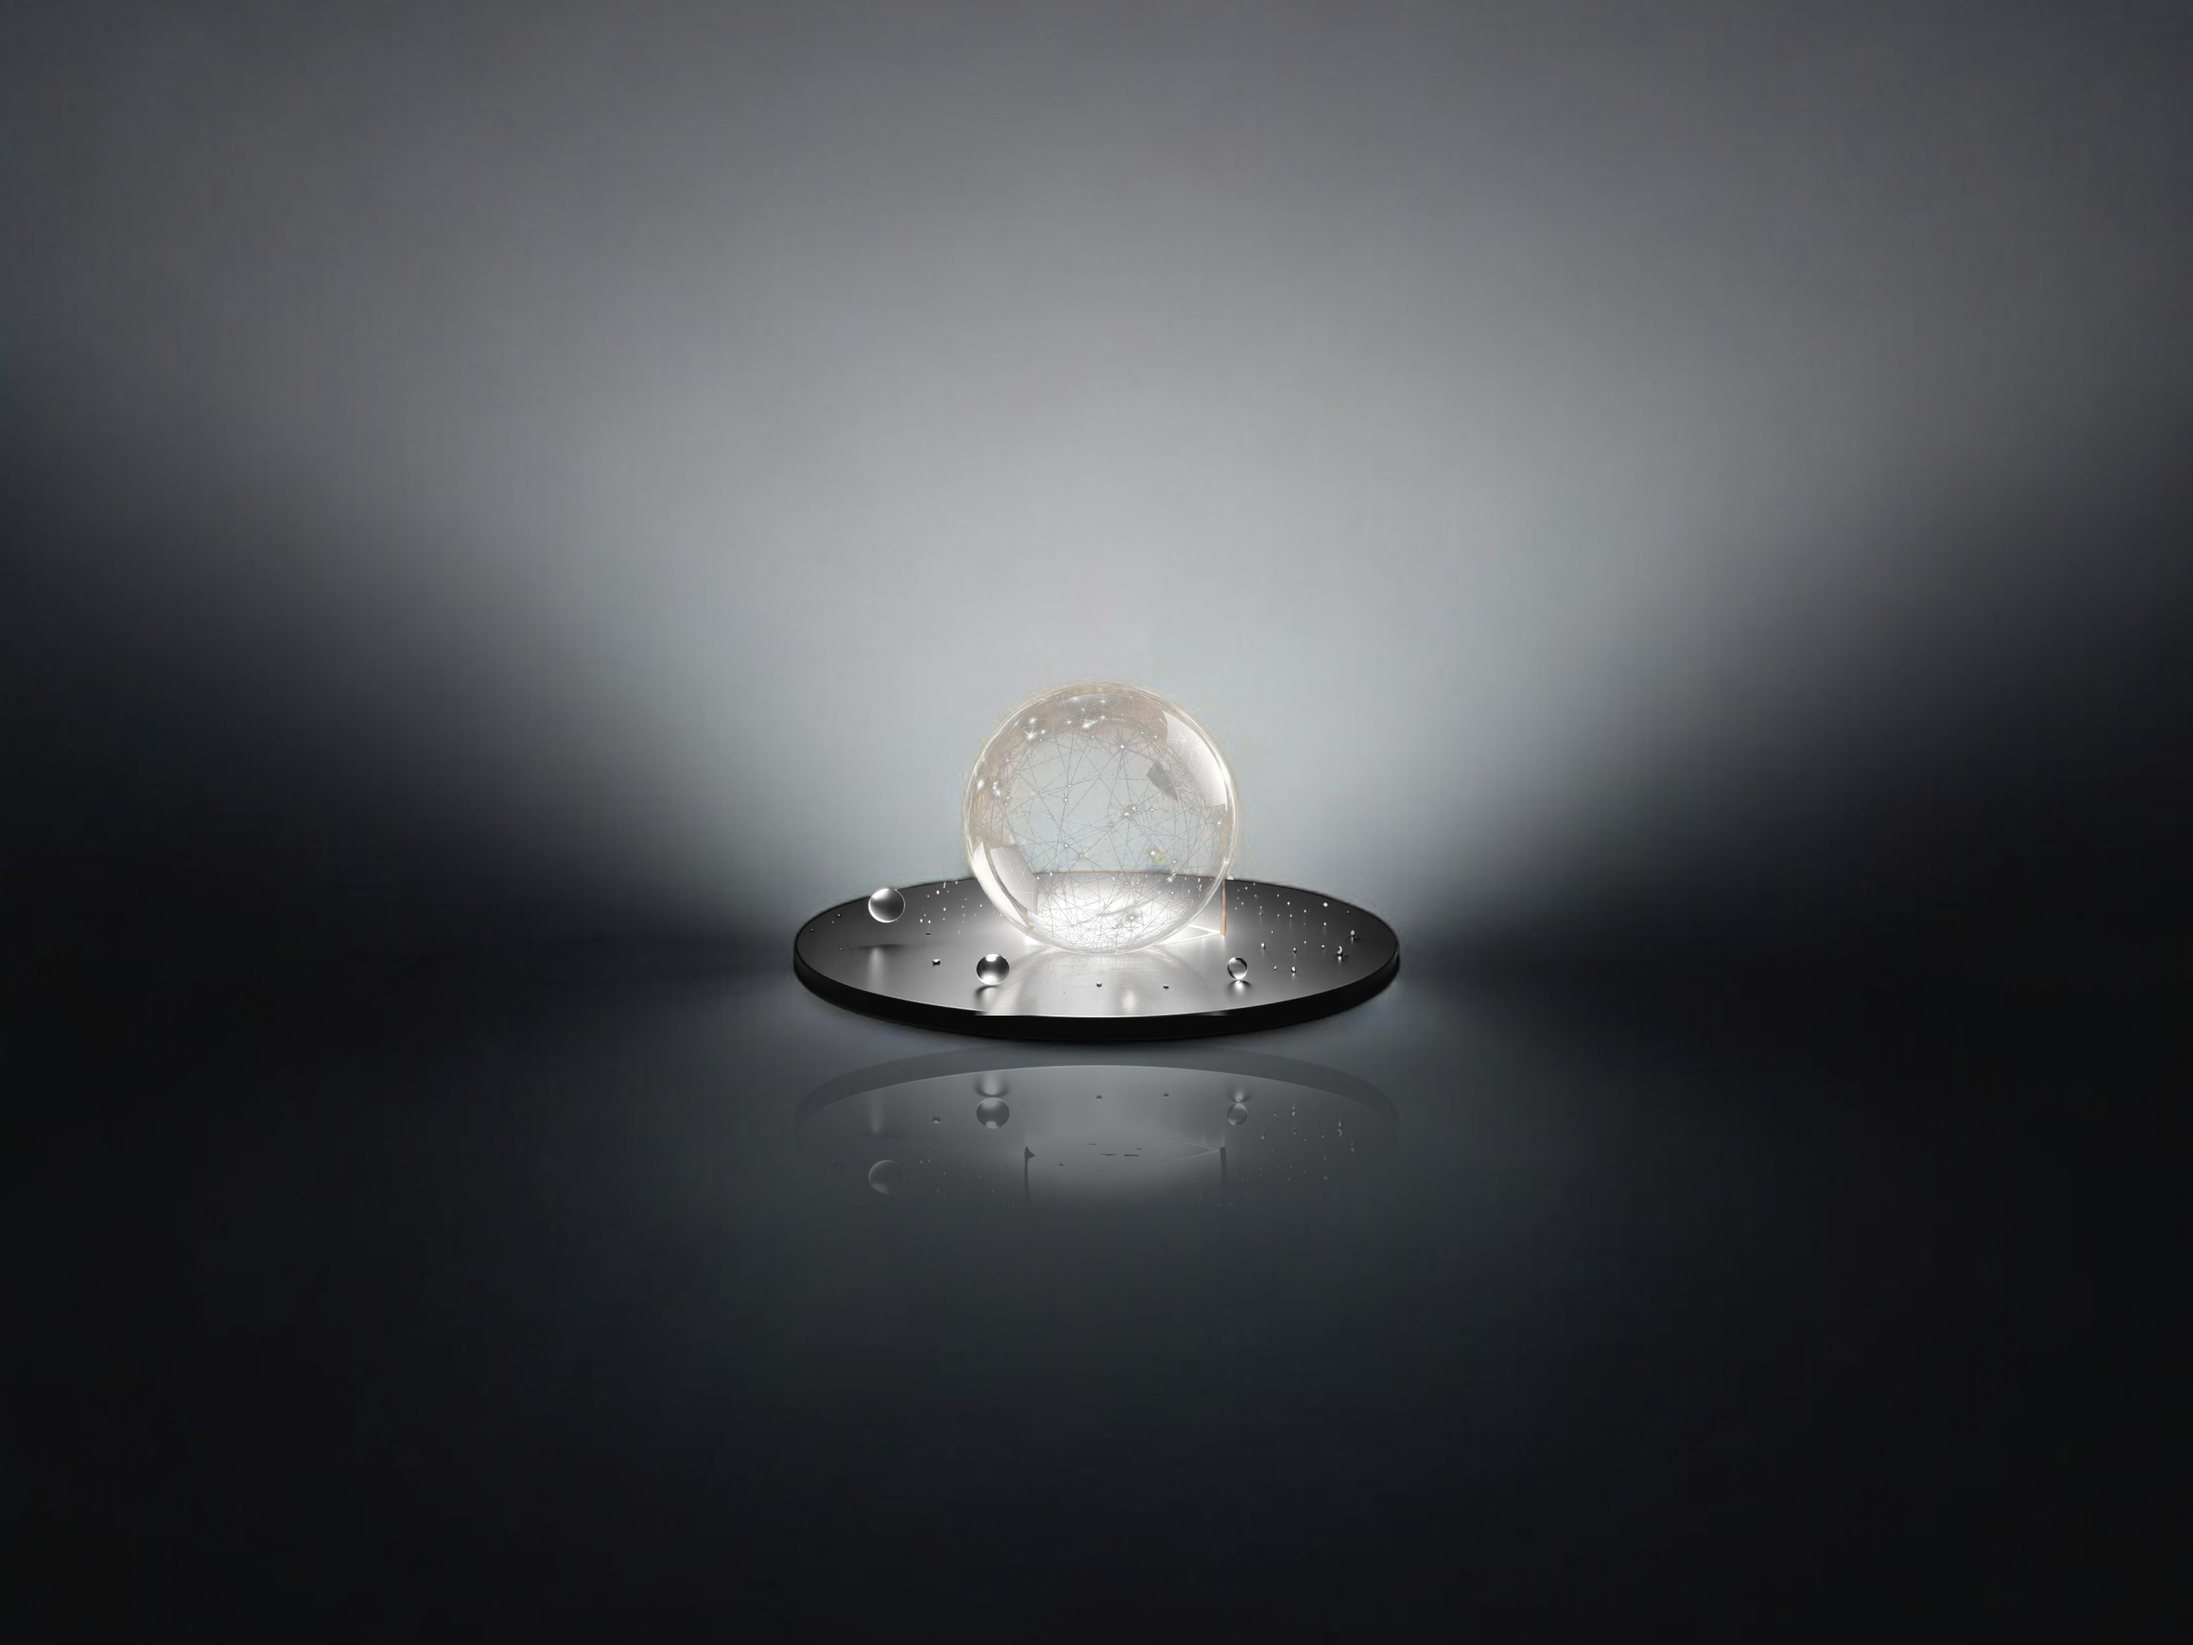
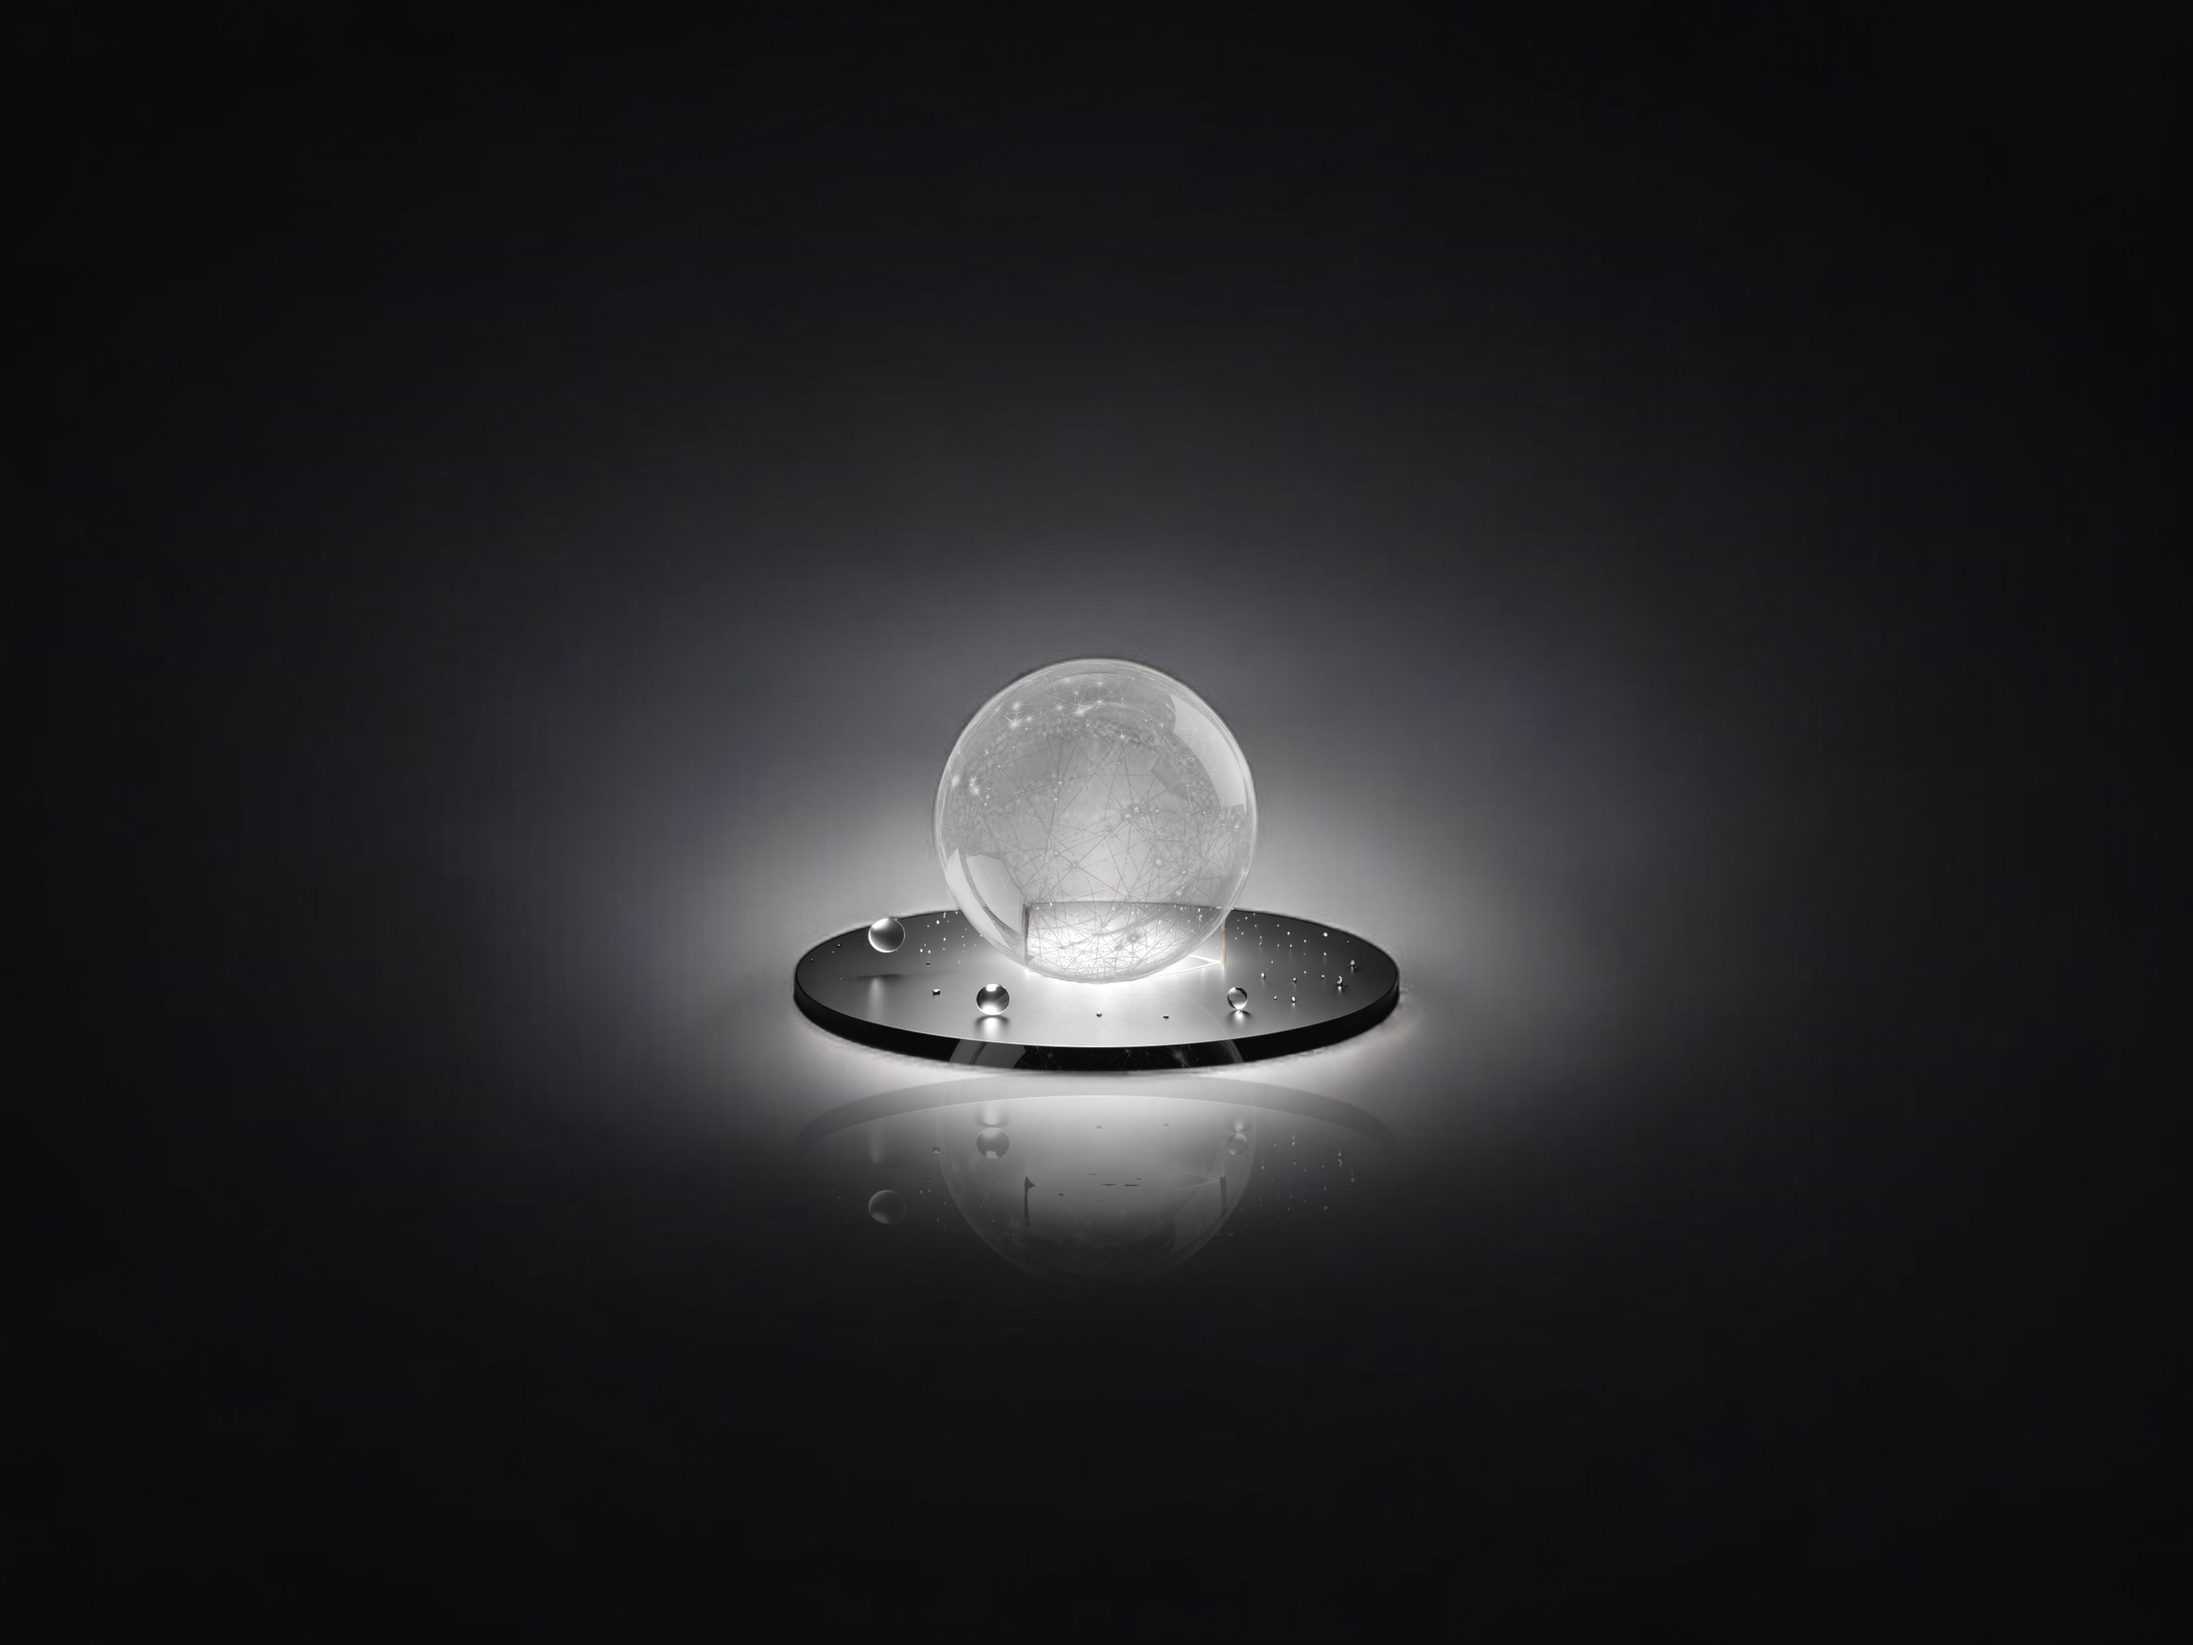
changed files
changed fieles

diff --git a/style.css b/style.css
@@ -1,0 +1,51 @@
+/* Basic Reset */
+* {
+    margin: 0;
+    padding: 0;
+    box-sizing: border-box;
+}
+
+/* Fullscreen Background */
+body, html {
+    width: 100%;
+    height: 100%;
+    overflow: hidden;
+    background-color: #000;
+    display: flex;
+    justify-content: center;
+    align-items: center;
+}
+
+/* Container with Default Background Image */
+.container {
+    width: 100vw;
+    height: 100vh;
+    background-image: url('images/Background-off.jpg');
+    background-size: cover;
+    background-position: center;
+    position: relative;
+    transition: background-image 0.3s ease;
+    display: flex;
+    justify-content: center;
+    align-items: center;
+}
+
+/* Bubble Styling */
+.bubble {
+    width: 500px;
+    height: 500px;
+    border-radius: 50%;
+    background-color: rgba(255, 255, 255, 0.1); /* Transparent by default */
+    transition: transform 0.3s, box-shadow 0.3s;
+}
+
+/* Hover effect */
+.bubble:hover {
+    transform: scale(1.1);
+    box-shadow: 0 0 50px 30px rgba(255, 255, 255, 0.8);
+}
+
+/* Active state - Change background of container, not the bubble */
+.container.active {
+    background-image: url('images/Background-on.jpg');
+}

diff --git a/script.js b/script.js
@@ -1,9 +1,6 @@
-document.addEventListener('DOMContentLoaded', () => {
-    const bubble = document.querySelector('.bubble');
-    const background = document.querySelector('.background');
-    
-    bubble.addEventListener('click', () => {
-        bubble.classList.toggle('active');
-        background.classList.toggle('on');
-    });
+const bubble = document.querySelector('.bubble');
+const container = document.querySelector('.container');
+
+bubble.addEventListener('click', () => {
+    container.classList.toggle('active');
 });

diff --git a/index.html b/index.html
@@ -4,12 +4,13 @@
     <meta charset="UTF-8">
     <meta name="viewport" content="width=device-width, initial-scale=1.0">
     <title>Interactive Light Source</title>
-    <link rel="stylesheet" href="styles.css">
+    <link rel="stylesheet" href="style.css">
 </head>
 <body>
-    <div class="background">
+    <div class="container">
         <div class="bubble"></div>
     </div>
+
     <script src="script.js"></script>
 </body>
 </html>
